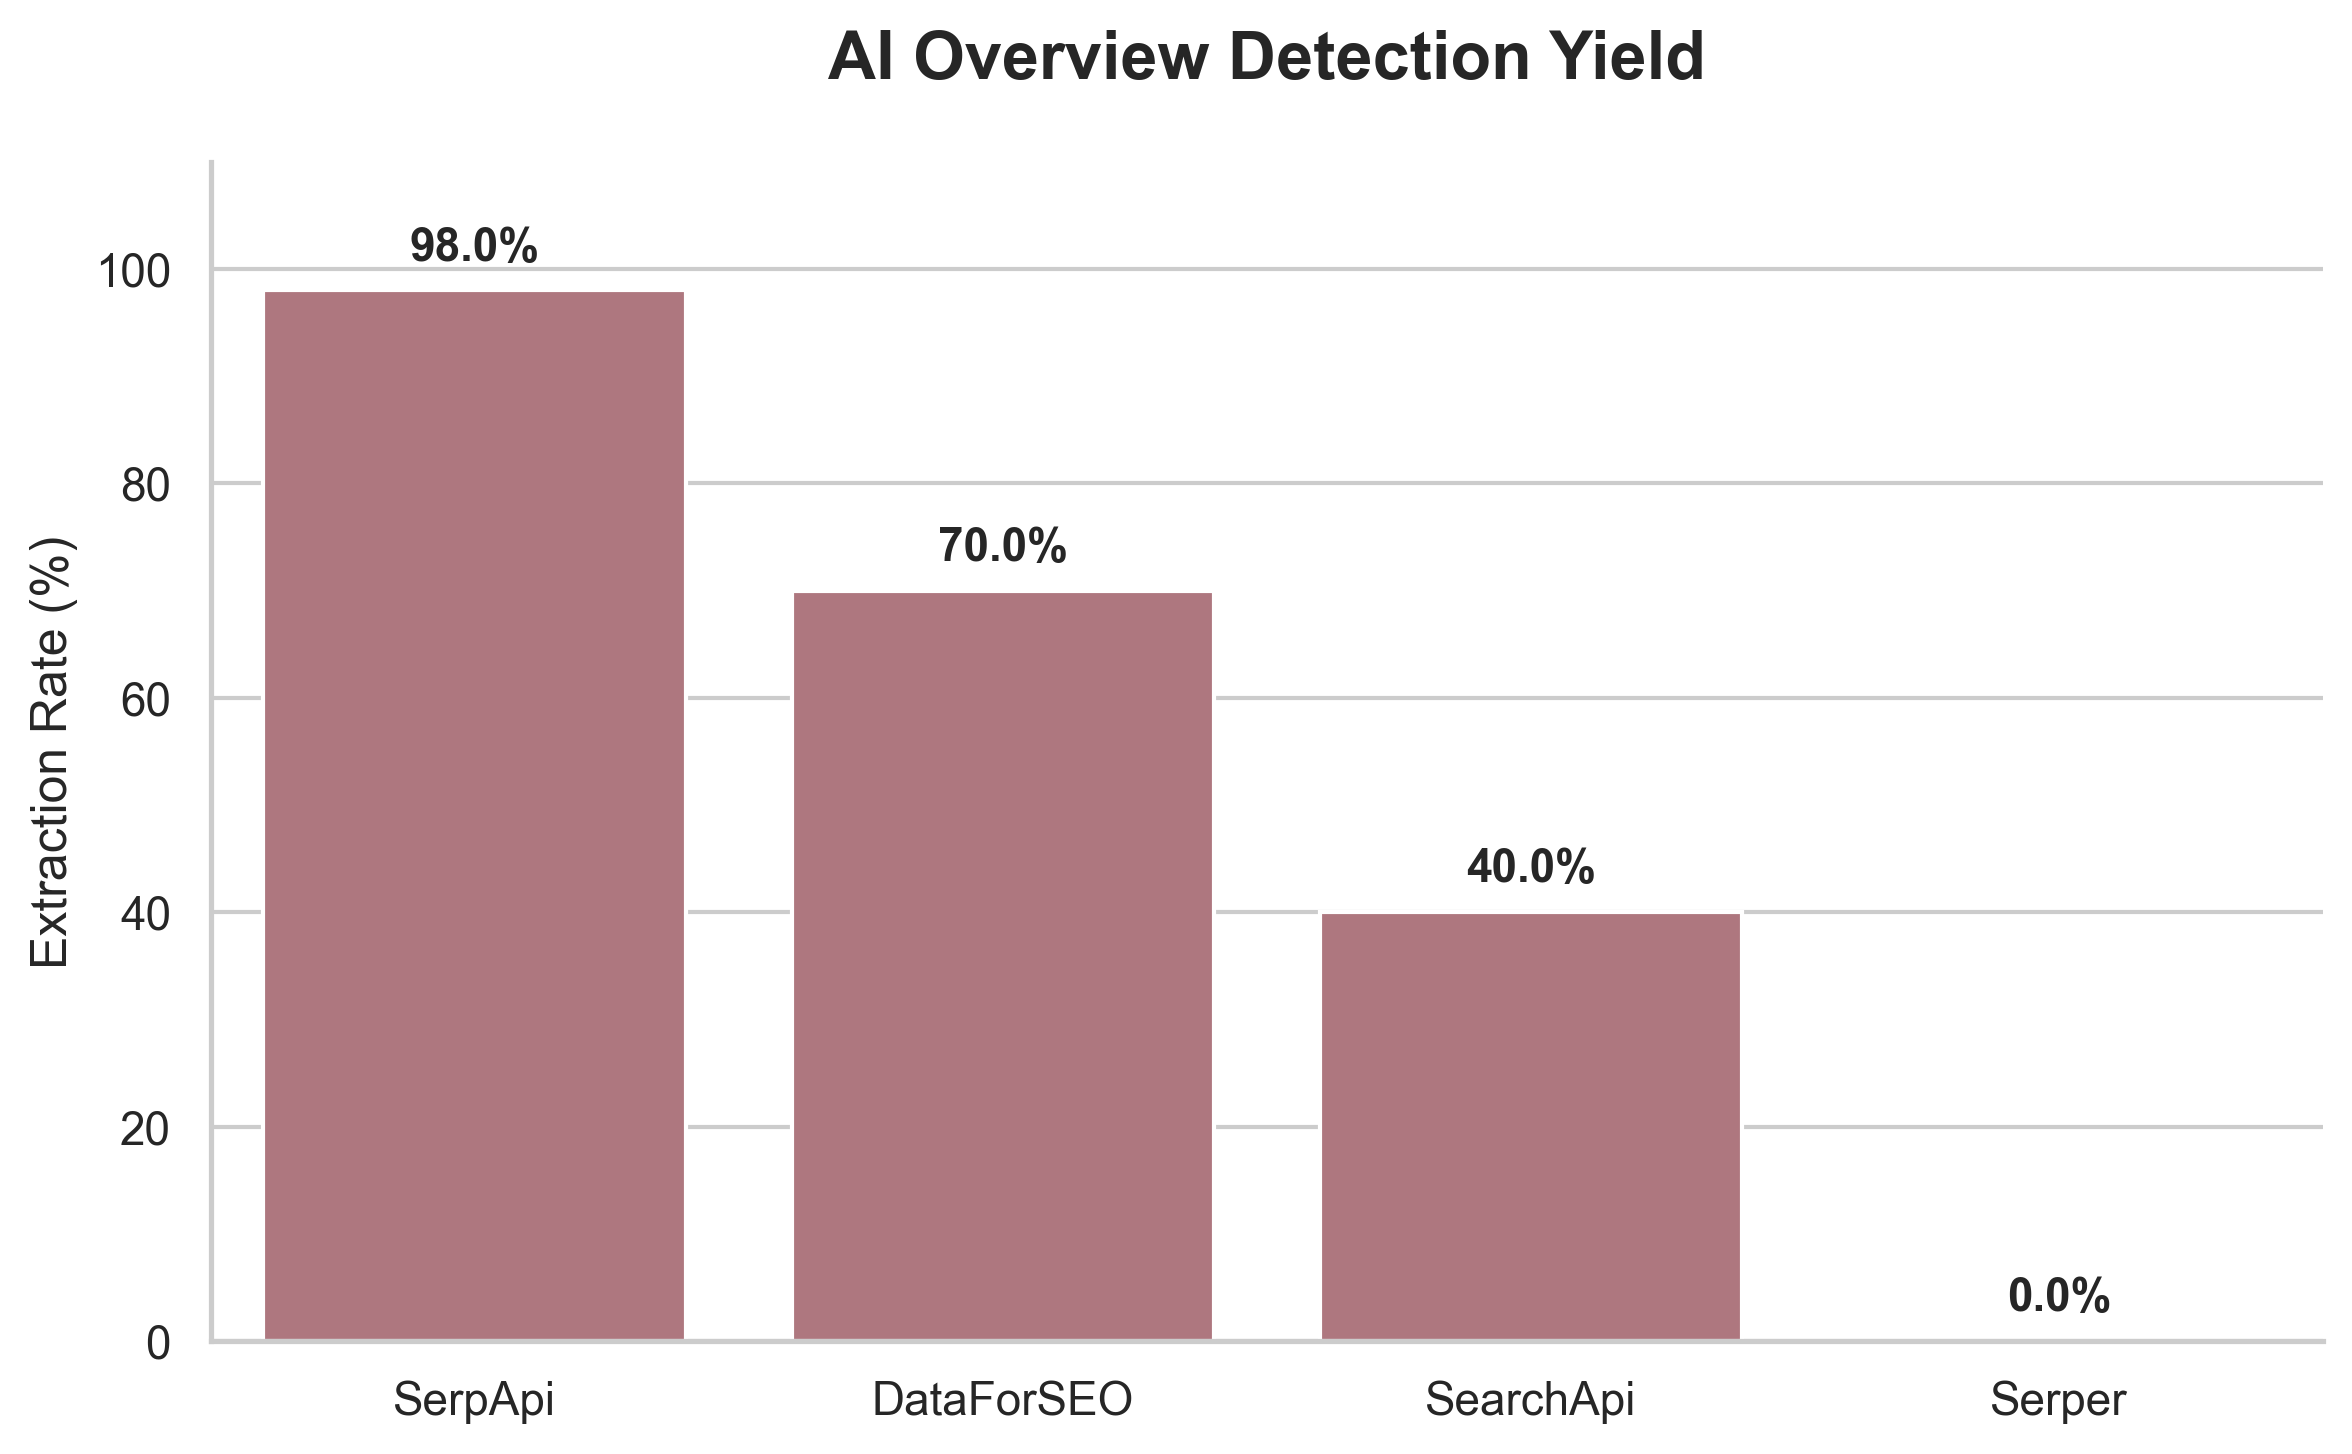
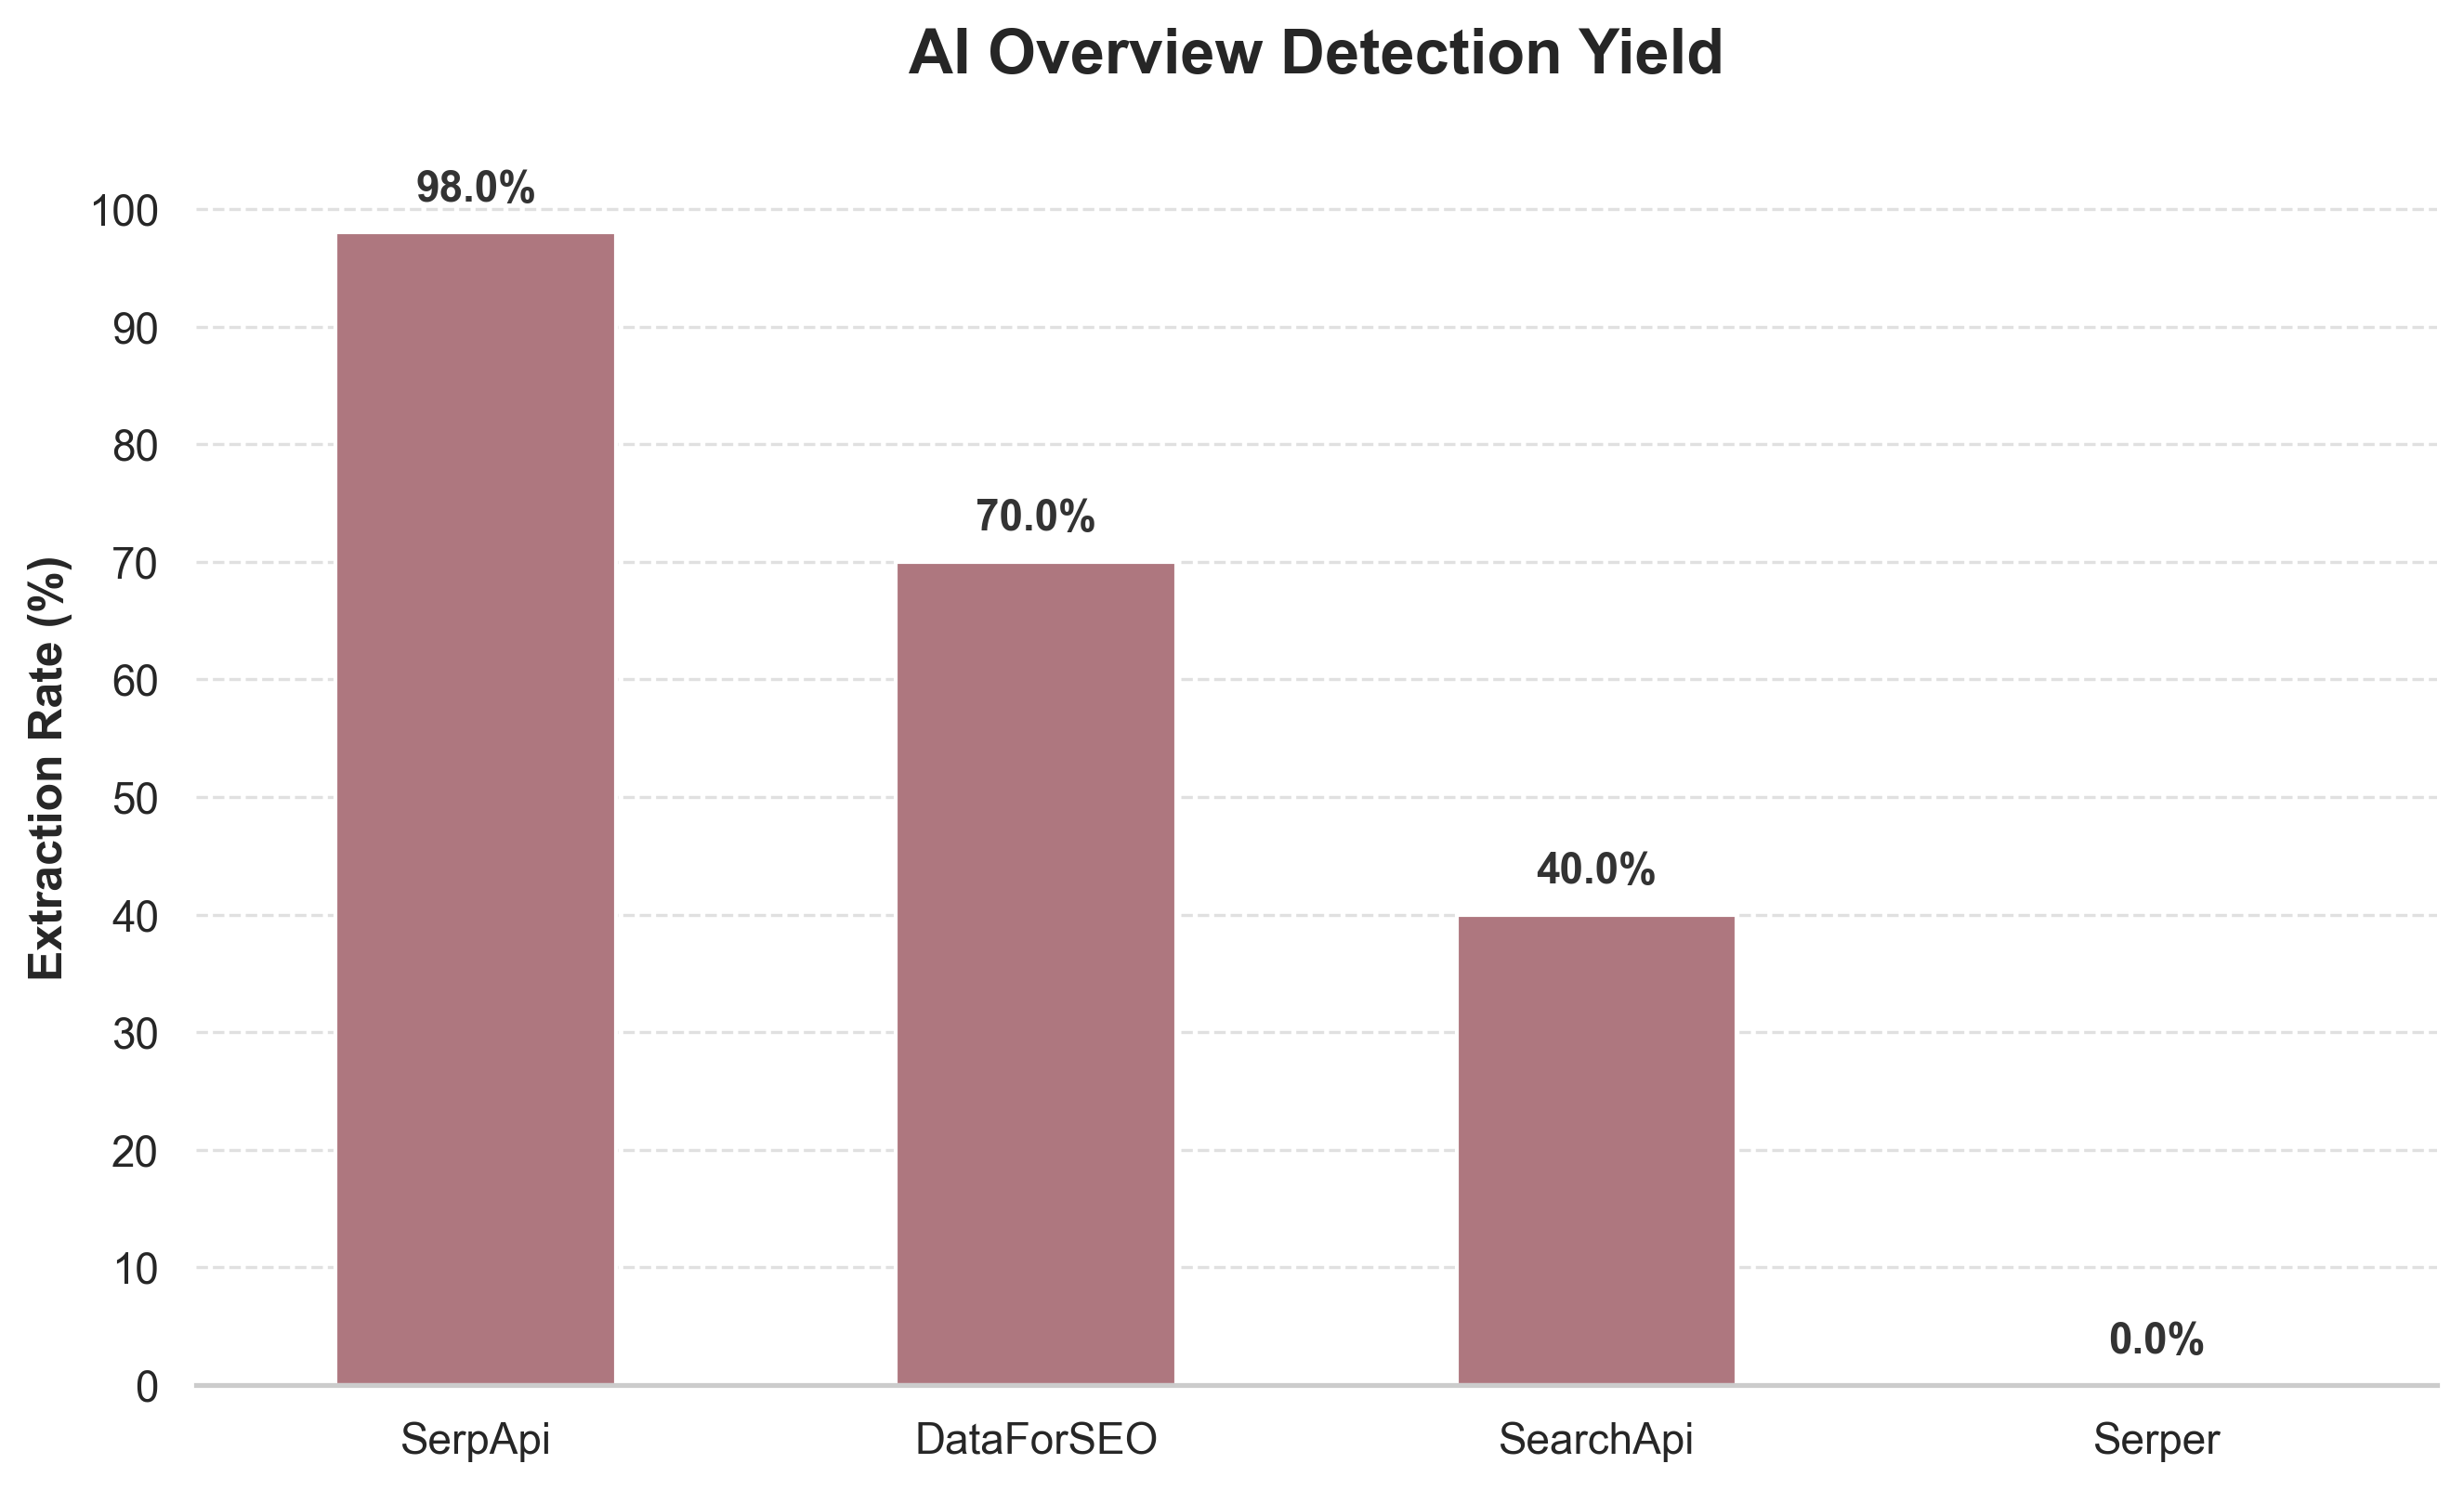
feat: upgrade chart aesthetics and combine richness graphs

Changed region(s): [[0.0, 0.0928, 0.9622, 0.9904], [0.3414, 0.0, 0.7449, 0.0619]]

diff --git a/blog/serp-api-benchmark.html b/blog/serp-api-benchmark.html
@@ -131,10 +131,11 @@
 <p><strong>Serper</strong> completely failed the benchmark, posting a <strong>0.0% Yield</strong>. A deep algorithmic scan of all 50 raw JSON responses confirmed that Serper does not support AI Overviews. They do not extract them, they do not attempt to expand them, and they drop the data entirely from their payload.</p>
 <h3>Extraction Richness</h3>
 <p>Detecting the AI Overview is necessary, but the true value for RAG pipelines lies in the <em>structured</em> data. If an API returns a massive wall of raw text, the downstream LLM has no idea which sentences correspond to which URLs, and the chain of citation is destroyed.</p>
-<p>Extraction Richness measures how granularly the API parses the overview into discrete, iterable objects. I measured this by counting the mean number of Citations (URLs with associated metadata) and Text Blocks (distinct paragraphs or list items) extracted per successful query.</p>
-<p><img alt="Extraction Richness: Citations" src="../assets/images/blog/serp-benchmark/richness_citations.png" />
-<img alt="Extraction Richness: Text Blocks" src="../assets/images/blog/serp-benchmark/richness_text_blocks.png" /></p>
-<p><em>Extraction Richness compares the depth of structured data. (Note: Serper is excluded as they returned 0 AI Overviews.)</em></p>
+<p>Extraction Richness measures how granularly the API parses the overview into structured data.</p>
+<figure>
+  <img src="../assets/images/blog/serp-benchmark/richness_combined.png" alt="Grouped bar chart showing average citations and text blocks preserved by each provider" style="max-width: 100%; border-radius: 8px; box-shadow: 0 4px 6px rgba(0,0,0,0.1); margin: 2rem 0;">
+  <figcaption style="text-align: center; font-size: 0.9rem; color: var(--text-muted); margin-top: 0.5rem;">Average Citations and Text Blocks extracted per AI Overview (Serper excluded due to 0% yield).</figcaption>
+</figure>
 <p><strong>SerpApi</strong> again proved its dominance. When they extracted an AI Overview, they provided an average of <strong>12.6 distinct citations</strong> and <strong>9.3 discrete text blocks</strong>. Their parser aggressively breaks down the HTML, separating headers, paragraphs, and list items into distinct JSON objects. This makes it straightforward to map specific claims to their source URLs programmatically.</p>
 <p><strong>SearchApi</strong>, despite their yield struggles, demonstrated excellent parsing logic when they did successfully return an overview. They averaged <strong>9.2 citations</strong> and <strong>7.7 text blocks</strong>, proving that their extraction algorithm is robust and highly structured. If they resolve their rate-limiting and asynchronous expansion issues, their payload quality is top-tier.</p>
 <p><strong>DataForSEO</strong> revealed a significant architectural compromise. While they successfully extracted citations (averaging <strong>8.8 per query</strong>), they failed to parse the text into structured blocks, averaging just <strong>1.0 text block per query</strong>. A deep dive into their raw JSON revealed why: DataForSEO largely abandons granular parsing for the text, instead collapsing the entire AI Overview into a single <code>markdown</code> field. While this is better than losing the text entirely, it shifts the parsing burden onto the developer, who must now write custom regex or markdown parsers to extract the content.</p>

diff --git a/serp-benchmark/analysis/analyze.py b/serp-benchmark/analysis/analyze.py
@@ -7,12 +7,28 @@ from pathlib import Path
 import seaborn as sns
 
 def generate_charts(df, charts_dir, blog_charts_dir):
+    # Professional, publication-ready aesthetics
     sns.set_theme(style="whitegrid")
+    plt.rcParams.update({
+        'font.family': 'sans-serif',
+        'font.weight': 'medium',
+        'axes.labelweight': 'bold',
+        'axes.titleweight': 'bold',
+        'axes.spines.top': False,
+        'axes.spines.right': False,
+        'axes.spines.left': False,
+        'axes.grid': True,
+        'grid.color': '#E0E0E0',
+        'grid.linestyle': '--',
+        'grid.linewidth': 0.8,
+        'axes.axisbelow': True,
+    })
+    
     # Custom colors mapping from the portfolio CSS
     colors = {
         'yield': '#b76e79',       # --rose-gold
-        'citations': '#c9a96e',   # --gold
-        'blocks': '#8b4f5a'       # --rose-gold-dark
+        'Citations': '#c9a96e',   # --gold
+        'Text Blocks': '#8b4f5a'  # --rose-gold-dark
     }
     
     def save_dual(filename):
@@ -26,57 +42,75 @@ def generate_charts(df, charts_dir, blog_charts_dir):
         detection_rates = df.groupby('provider')['present'].mean() * 100
         detection_rates = detection_rates.sort_values(ascending=False)
         
-        plt.figure(figsize=(8, 5))
-        ax = sns.barplot(x=detection_rates.index, y=detection_rates.values, color=colors['yield'])
+        plt.figure(figsize=(9, 5.5))
+        ax = sns.barplot(x=detection_rates.index, y=detection_rates.values, color=colors['yield'], width=0.5)
         
-        # Styling
-        sns.despine(top=True, right=True)
-        plt.title('AI Overview Detection Yield', fontsize=16, pad=20, fontfamily='sans-serif', fontweight='bold')
+        plt.title('AI Overview Detection Yield', fontsize=16, pad=20)
         plt.ylabel('Extraction Rate (%)', fontsize=12)
         plt.xlabel('', fontsize=12)
-        plt.ylim(0, 110)
+        plt.ylim(0, 105)
+        import numpy as np
+        plt.yticks(np.arange(0, 101, 10))
         
         # Direct Labeling
         for i, v in enumerate(detection_rates.values):
-            ax.text(i, v + 2, f"{v:.1f}%", ha='center', va='bottom', fontsize=11, fontweight='bold')
+            ax.text(i, v + 2, f"{v:.1f}%", ha='center', va='bottom', fontsize=11, fontweight='bold', color='#333333')
             
         save_dual('detection_yield.png')
 
-    # 2. Extraction Richness (Citations and Text Blocks)
+    # 2. Extraction Richness (Combined Grouped Bar Chart)
     present_df = df[df['present'] == True]
-    all_providers = df['provider'].unique()
     if not present_df.empty:
-        # Average Citations
-        avg_citations = present_df.groupby('provider')['citations_count'].mean().reindex(all_providers, fill_value=0)
-        avg_citations = avg_citations.sort_values(ascending=False)
+        active_providers = present_df['provider'].unique()
         
-        plt.figure(figsize=(8, 5))
-        ax = sns.barplot(x=avg_citations.index, y=avg_citations.values, color=colors['citations'])
-        sns.despine(top=True, right=True)
-        plt.title('Extraction Richness: Citations Preserved', fontsize=16, pad=20, fontfamily='sans-serif', fontweight='bold')
-        plt.ylabel('Average Citations per AI Overview', fontsize=12)
+        avg_citations = present_df.groupby('provider')['citations_count'].mean().reindex(active_providers)
+        avg_blocks = present_df.groupby('provider')['text_blocks_count'].mean().reindex(active_providers)
+        
+        # Create a combined DataFrame for melting
+        richness_df = pd.DataFrame({
+            'provider': active_providers,
+            'Citations': avg_citations.values,
+            'Text Blocks': avg_blocks.values
+        })
+        
+        # Sort by Citations descending for aesthetic flow
+        richness_df = richness_df.sort_values(by='Citations', ascending=False)
+        
+        melted_df = richness_df.melt(id_vars='provider', var_name='Metric', value_name='Average Count')
+        
+        plt.figure(figsize=(9, 5.5))
+        ax = sns.barplot(
+            data=melted_df, 
+            x='provider', 
+            y='Average Count', 
+            hue='Metric',
+            palette={'Citations': colors['Citations'], 'Text Blocks': colors['Text Blocks']},
+            width=0.6
+        )
+        
+        plt.title('Extraction Richness: Citations & Text Blocks', fontsize=16, pad=20)
+        plt.ylabel('Average Count per AI Overview', fontsize=12)
         plt.xlabel('', fontsize=12)
         
-        for i, v in enumerate(avg_citations.values):
-            ax.text(i, v + 0.2, f"{v:.1f}", ha='center', va='bottom', fontsize=11, fontweight='bold')
-            
-        save_dual('richness_citations.png')
-
-        # Average Text Blocks
-        avg_blocks = present_df.groupby('provider')['text_blocks_count'].mean().reindex(all_providers, fill_value=0)
-        avg_blocks = avg_blocks.sort_values(ascending=False)
+        # Add granular ticks for the count
+        max_val = melted_df['Average Count'].max()
+        if max_val > 0:
+            tick_step = 1 if max_val <= 10 else 2
+            plt.yticks(np.arange(0, int(max_val) + 2, tick_step))
         
-        plt.figure(figsize=(8, 5))
-        ax = sns.barplot(x=avg_blocks.index, y=avg_blocks.values, color=colors['blocks'])
-        sns.despine(top=True, right=True)
-        plt.title('Extraction Richness: Text Blocks Preserved', fontsize=16, pad=20, fontfamily='sans-serif', fontweight='bold')
-        plt.ylabel('Average Text Blocks per AI Overview', fontsize=12)
-        plt.xlabel('', fontsize=12)
-        
-        for i, v in enumerate(avg_blocks.values):
-            ax.text(i, v + 0.2, f"{v:.1f}", ha='center', va='bottom', fontsize=11, fontweight='bold')
+        # Direct Labeling on grouped bars
+        for p in ax.patches:
+            if p.get_height() > 0:
+                ax.annotate(f"{p.get_height():.1f}", 
+                            (p.get_x() + p.get_width() / 2., p.get_height()), 
+                            ha='center', va='bottom', 
+                            xytext=(0, 5), textcoords='offset points',
+                            fontsize=10, fontweight='bold', color='#333333')
+                
+        # Style Legend
+        plt.legend(title='', frameon=False, loc='upper right', fontsize=11)
             
-        save_dual('richness_text_blocks.png')
+        save_dual('richness_combined.png')
 
 def main():
     root_dir = Path(__file__).parent.parent